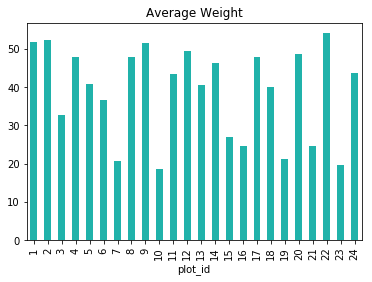
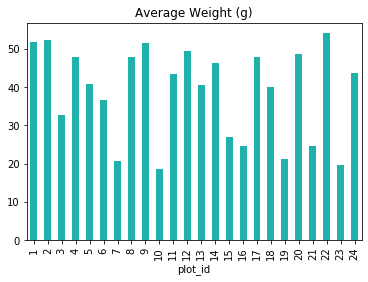
updates for 2019

diff --git a/_episodes/03-starting-with-data.md b/_episodes/03-starting-with-data.md
@@ -34,7 +34,7 @@ and they can replicate the same analysis.
 
 To help the lesson run smoothly, let's ensure everyone is in the same directory.
 This should help us avoid path and file name issues. At this time please
-navigate to the directory containing the [course repository](https://github.com/EEOB-BioData/BCB546X-Fall2018) on your computer. 
+navigate to the directory containing the [course repository](https://github.com/EEOB-BioData/BCB546X-Fall2019) on your computer. 
 Before starting, be sure to **pull** the most recent changes from the repository using `git pull origin master`.
 If you're working in Jupyter Notebook be sure
 that you start your notebook in the `course-files/python` directory. If you do not have this directory, please see the instructions in the [Setup](../setup/) page.
@@ -65,7 +65,7 @@ from the ecological study by Ernst et al. (2009):
 Specifically, we will be using files from the [Portal Project Teaching Database](https://figshare.com/articles/Portal_Project_Teaching_Database/1314459).
 
 * This section will use the `surveys.csv` file that can be downloaded from the 
-[`course-files/python`](https://github.com/EEOB-BioData/BCB546X-Fall2018/tree/master/course-files/python) folder of the course repository.
+[`course-files/python`](https://github.com/EEOB-BioData/BCB546X-Fall2019/tree/master/course-files/python) folder of the course repository.
 Pull from the course repository and change to to `course-files/python` or copy the `surveys.csv` file to the directory from which you would like to work.
 
 In this lesson, we are studying the species and weight of (_vertebrate_) animals captured in plots in our study
@@ -127,6 +127,34 @@ If you're using a Jupyter notebook for this lesson, it should look like this:
 
 Remember that the `import pandas as pd` syntax means that we have given the alias `pd` to the pandas library. Thus, we don't have to use the whole name when we invoke pandas functions.
 
+
+<!-- Add Documenting Code call out -->
+
+> ## Documenting Code
+> Let's take a moment to talk about proper documentation. 
+> One major benefit of using Jupyter Notebooks is that it gives 
+> us a way to provide clear and descriptive comments about our 
+> code. This is a good place to write a description of this 
+> notebook. 
+>
+> Add a new cell in your notebook and change the cell type to 
+> _Markdown_. 
+>
+> ![Create markdown cell](../fig/03-markdown-doc.png)
+>
+> You can also use the arrow buttons to move this cell to the 
+> top of your notebook.
+>
+> Now we can write a description of this notebook using Markdown.
+>
+> ```
+> # Lesson: Working with Pandas DataFrames in Python
+> 
+> In-class tutorial on Pandas.
+> ``` 
+>
+> ![Create markdown cell](../fig/03-markdown-doc2.png)
+{: .callout}
 
 # Reading CSV Data Using Pandas
 
@@ -311,12 +339,12 @@ species were caught. We can summarize different aspects of our data using groups
 Let's begin by exploring our data and view the column names:
 
 ~~~
-surveys_df.columns.values
+surveys_df.columns
 ~~~
 {: .python}
 
 ~~~
-array(['record_id', 'month', 'day', 'year', 'plot_id', 'species_id', 'sex',
+Index(['record_id', 'month', 'day', 'year', 'plot_id', 'species_id', 'sex',
        'hindfoot_length', 'weight'], dtype=object)
 ~~~
 {: .output}
@@ -344,7 +372,7 @@ array(['NL', 'DM', 'PF', 'PE', 'DS', 'PP', 'SH', 'OT', 'DO', 'OX', 'SS',
 > Call it `plot_names`. How many unique plots are there in the data? 
 > <!--How many unique species are in the data?-->
 > 
-> 2. What is a much simpler approach to this?
+> 2. Is there a simpler solution for doing this?
 >
 > > ## Solution
 > > 
@@ -357,6 +385,8 @@ array(['NL', 'DM', 'PF', 'PE', 'DS', 'PP', 'SH', 'OT', 'DO', 'OX', 'SS',
 > > print(surveys_df['plot_id'].nunique())
 > > ~~~
 > > {: .python}
+> > 
+> > Note that the `.nunique()` method does not count null (i.e., `nan`) values.
 > {: .solution}
 {: .challenge}
 
@@ -439,7 +469,7 @@ surveys_df['weight'].std()
 ~~~
 {: .output}
 
-Count the number of non-null observations made:
+Count the number of observations made for weight:
 
 ~~~
 surveys_df['weight'].count()
@@ -451,7 +481,7 @@ surveys_df['weight'].count()
 ~~~
 {: .output}
 
-But if we want to summarize by one or more variables, for example sex, we need to
+But if we want to summarize by one or more variables, for example the weight for each sex, we need to
 use the Pandas DataFrame `.groupby()` method. Once we've created a re-orgaized DataFrame, we
 can quickly calculate summary statistics by a group of our choice.
 
@@ -466,56 +496,23 @@ The method `.describe()` will return descriptive stats including: mean,
 median, max, min, std and count for a particular column in the data. Pandas'
 `.describe()` method will only return summary values for columns containing
 numeric data.
-This provides summary statistics for each column separated by sex. 
+With the sorted data, we can obtain the summary statistics for the weight column separated by sex. 
 
 ~~~
-sorted_data.describe()
+sorted_data['weight'].describe()
 ~~~
 {: .python}
 
 ~~~
-                    day  hindfoot_length         month       plot_id  \
-sex                                                                    
-F   count  15690.000000     14894.000000  15690.000000  15690.000000   
-    mean      16.007138        28.836780      6.583047     11.440854   
-    std        8.271144         9.463789      3.367350      6.870684   
-    min        1.000000         7.000000      1.000000      1.000000   
-    25%        9.000000        21.000000      4.000000      5.000000   
-    50%       16.000000        27.000000      7.000000     12.000000   
-    75%       23.000000        36.000000     10.000000     17.000000   
-    max       31.000000        64.000000     12.000000     24.000000   
-M   count  17348.000000     16476.000000  17348.000000  17348.000000   
-    mean      16.184286        29.709578      6.392668     11.098282   
-    std        8.199274         9.629246      3.420806      6.728713   
-    min        1.000000         2.000000      1.000000      1.000000   
-    25%        9.000000        21.000000      3.000000      5.000000   
-    50%       16.000000        34.000000      6.000000     11.000000   
-    75%       23.000000        36.000000      9.000000     17.000000   
-    max       31.000000        58.000000     12.000000     24.000000   
-
-              record_id        weight          year  
-sex                                                  
-F   count  15690.000000  15303.000000  15690.000000  
-    mean   18036.412046     42.170555   1990.644997  
-    std    10423.089000     36.847958      7.598725  
-    min        3.000000      4.000000   1977.000000  
-    25%     8917.500000     20.000000   1984.000000  
-    50%    18075.500000     34.000000   1990.000000  
-    75%    27250.000000     46.000000   1997.000000  
-    max    35547.000000    274.000000   2002.000000  
-M   count  17348.000000  16879.000000  17348.000000  
-    mean   17754.835601     42.995379   1990.480401  
-    std    10132.203323     36.184981      7.403655  
-    min        1.000000      4.000000   1977.000000  
-    25%     8969.750000     20.000000   1984.000000  
-    50%    17727.500000     39.000000   1990.000000  
-    75%    26454.250000     49.000000   1997.000000  
-    max    35548.000000    280.000000   2002.000000  
+       count       mean        std  min   25%   50%   75%    max
+sex                                                             
+F    15303.0  42.170555  36.847958  4.0  20.0  34.0  46.0  274.0
+M    16879.0  42.995379  36.184981  4.0  20.0  39.0  49.0  280.0
 ~~~
 {: .output}
 
 
-We can also get the mean for each numeric column, grouped by sex:
+We can also get the mean for each numeric-valued column, grouped by sex:
 
 ~~~
 sorted_data.mean()
@@ -560,8 +557,8 @@ summaries of categorical data.
 
 > ## Group by two columns
 >
-> What happens when you group by two columns using the following syntax and 
-> then grab mean values:
+> What happens when you group by two columns and 
+> then view mean values:
 > - Hint: you can use a list in the arguments of the `.groupby()` method, `['plot_id','sex']`
 > 
 > > ## Solution
@@ -708,7 +705,7 @@ total_count.plot(kind='bar',title='Number captured per plot', color='green')
 > > 
 > > ~~~
 > > plot_weight_means = surveys_df.groupby('plot_id')['weight'].mean()
-> > plot_weight_means.plot(kind='bar',title='Average Weight',color='LightSeaGreen')
+> > plot_weight_means.plot(kind='bar',title='Average Weight (g)',color='LightSeaGreen')
 > > ~~~
 > > {: .python}
 > > 
@@ -724,7 +721,7 @@ total_count.plot(kind='bar',title='Number captured per plot', color='green')
 > > 
 > > ~~~
 > > counts_by_sex = surveys_df['record_id'].groupby(surveys_df['sex']).count()
-> > counts_by_sex.plot(kind='bar',title='Number captured for each sex')
+> > counts_by_sex.plot(kind='bar',title='Number captured for each sex',color=['k', 'r'])
 > > ~~~
 > > {: .python}
 > > 
@@ -790,9 +787,10 @@ Now, create a stacked bar plot with those data where the weights for each sex ar
 ~~~
 spc = plot_sex_count.unstack()
 s_plot = spc.plot(kind='bar',stacked=True,title="Total weight by plot and sex")
-s_plot.set_ylabel("Weight")
+s_plot.set_ylabel("Weight (g)")
 s_plot.set_xlabel("Plot")
 ~~~
 {: .python}
+<!-- redo plot -->
 
 ![Stacked Bar Plot](../fig/stackedBar.png)

diff --git a/_episodes/04-more-dataframes.md b/_episodes/04-more-dataframes.md
@@ -239,6 +239,10 @@ surveys_df[0:3]
 > {: .output}
 {: .callout}
 
+
+<!-- Add in R exercise here -->
+
+
 > ## Select a subset of rows from a column
 >
 > Combine selecting a subset with column headings and slice syntax for rows. Get
@@ -269,6 +273,8 @@ surveys_df[0:3]
 
 ## Changing Values in a DataFrame
 {: #changingvals }
+
+<!-- Make distinction about shallow vs deep copy in Pandas and how it works diff -->
 
 We can reassign values within subsets of our DataFrame. But before we do that, let's make a 
 copy of our DataFrame so as not to modify our original imported data. 
